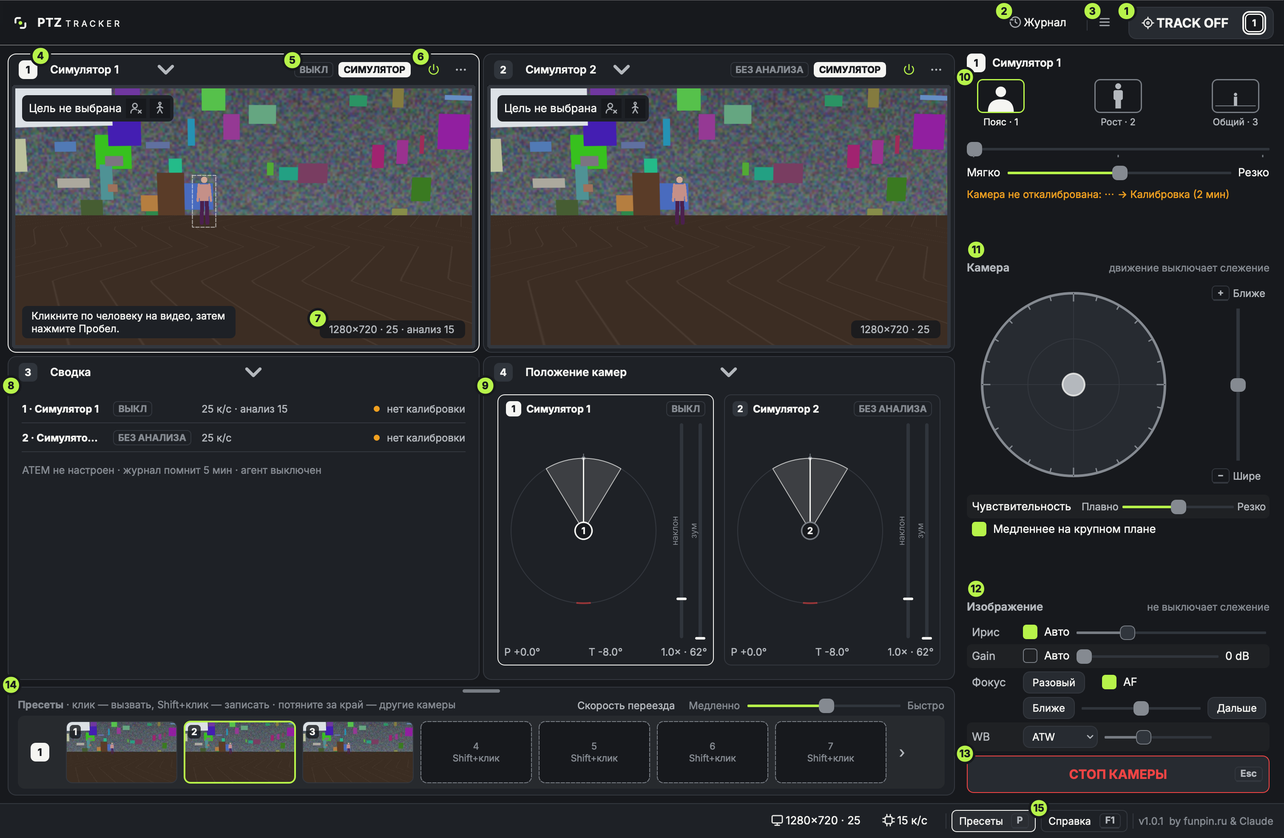
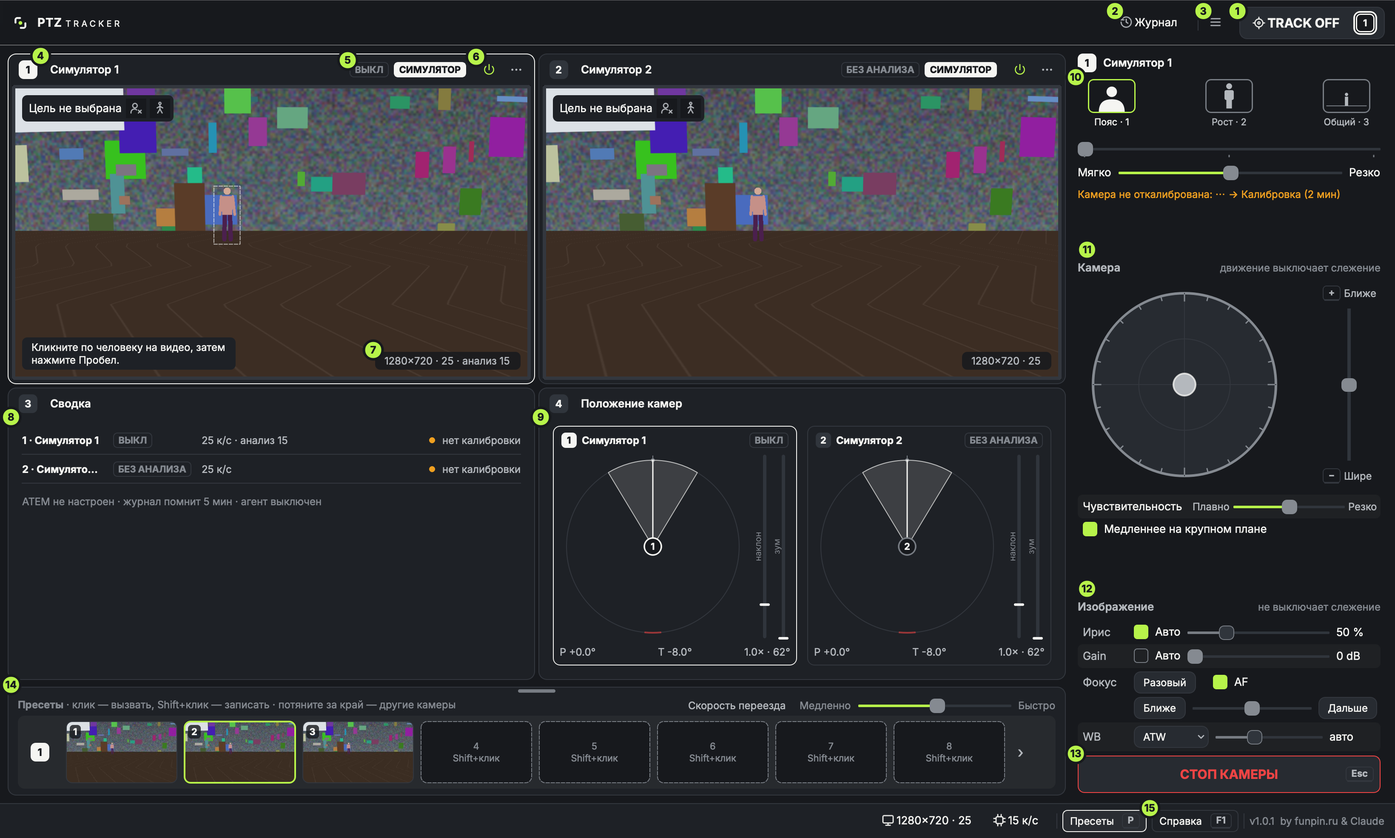
feat(ui): cell number in on-air colour; iris % and WB mode/kelvin values in one right column; header camera picker without the large system arrow

diff --git a/docs/design/mockups/summary-v2.html b/docs/design/mockups/summary-v2.html
@@ -1,0 +1,60 @@
+<!DOCTYPE html><html lang="ru"><head><meta charset="utf-8"><title>Сводка — варианты</title>
+<link href="https://fonts.googleapis.com/css2?family=Inter:wght@400;500;600;700;800&display=swap" rel="stylesheet">
+<style>
+:root{--bg:#17191D;--surface:#1E2126;--raised:#272B31;--raised-hi:#30353C;--line:#33373E;--white:#F5F5F2;--dim:#B4B8BD;--faint:#858A91;--grey:#777C83;--lime:#B7F34A;--pgm:#E8202A;--pvw:#2FB65E;--lost:#F0A020}
+*{box-sizing:border-box}body{margin:0;background:#0E0F12;color:var(--white);font-family:Inter,system-ui,sans-serif;padding:16px 18px;font-size:13px}
+h1{font-size:18px;margin:0 0 4px}.sub{color:var(--dim);font-size:12.5px;margin:0 0 12px;max-width:1150px;line-height:1.45}
+.g{display:grid;grid-template-columns:repeat(3,1fr);gap:14px}
+.v h3{margin:0 0 3px;font-size:14px}.v p{color:var(--dim);font-size:12px;line-height:1.4;margin:0 0 8px;min-height:50px}
+.cell{background:var(--surface);border:1px solid var(--line);border-radius:10px;height:300px;padding:10px 12px;display:flex;flex-direction:column;gap:8px;overflow:hidden}
+.hd{display:flex;align-items:center;gap:8px;font-weight:600}.n{width:20px;height:20px;border-radius:5px;background:var(--raised-hi);display:flex;align-items:center;justify-content:center;font-size:11px;font-weight:700}
+.n.pgm{background:var(--pgm)}.n.pvw{background:var(--pvw);color:var(--bg)}
+.lbl{font-size:10px;font-weight:700;letter-spacing:.06em;text-transform:uppercase}
+.big{font-size:34px;font-weight:800;font-variant-numeric:tabular-nums;letter-spacing:-1px;line-height:1}
+.mid{font-size:20px;font-weight:700;font-variant-numeric:tabular-nums}
+.tl{height:10px;border-radius:3px;display:flex;overflow:hidden;background:var(--raised);flex:1}.tl i{height:100%}
+.air{height:3px;border-radius:2px;display:flex;margin-top:2px}.air i{height:100%}
+.ax{display:flex;justify-content:space-between;color:var(--faint);font-size:10px}
+.lg{display:flex;gap:10px;font-size:10px;color:var(--faint)}.lg span:before{content:"";display:inline-block;width:7px;height:7px;border-radius:2px;margin-right:4px;background:var(--c)}
+.foot{margin-top:auto;color:var(--faint);font-size:11px;border-top:1px solid var(--line);padding-top:6px}
+.tile{background:var(--bg);border:1px solid var(--line);border-radius:8px;padding:8px 10px}
+.ring{width:84px;height:84px;border-radius:50%;display:flex;align-items:center;justify-content:center;position:relative}
+.ring:after{content:"";position:absolute;inset:9px;border-radius:50%;background:var(--surface)}
+.ring b{position:relative;z-index:1;font-size:15px;font-variant-numeric:tabular-nums}
+.choice{display:inline-flex;margin:14px 8px 0 0;padding:8px 14px;border-radius:999px;border:1px solid var(--line);cursor:pointer;color:var(--dim)}.choice.selected{border-color:var(--lime);color:var(--lime)}
+</style></head><body>
+<h1>«Сводка»: лента времени + эфирные часы</h1>
+<p class="sub">Клетка «Сводка» в настоящем размере окна 1640×850. Что в окне уже есть (ярлыки состояния, кадры в секунду), здесь не повторяем. Без ATEM вместо «в эфире» часы считают слежение.</p>
+<div class="g">
+
+<div class="v"><h3>1 · Табло сверху, дорожки снизу</h3><p>Крупно: кто в эфире и сколько, сколько ведёт без потери. Под ним — дорожки всех камер за 10 минут.</p>
+<div class="cell"><div class="hd"><span class="n">3</span>Сводка</div>
+<div style="display:grid;grid-template-columns:1fr 1fr;gap:8px">
+<div class="tile"><div class="lbl" style="color:var(--pgm)">в эфире · 1 Сцена</div><div class="big">04:37</div></div>
+<div class="tile"><div class="lbl" style="color:var(--lime)">ведёт без потери</div><div class="big">02:12</div></div></div>
+<div><div style="display:flex;align-items:center;gap:8px"><span class="n pgm">1</span><div class="tl"><i style="width:18%;background:var(--grey)"></i><i style="width:30%;background:var(--lime)"></i><i style="width:5%;background:var(--lost)"></i><i style="width:47%;background:var(--lime)"></i></div></div>
+<div style="display:flex;align-items:center;gap:8px;margin-top:7px"><span class="n pvw">2</span><div class="tl"><i style="width:60%;background:var(--grey)"></i><i style="width:40%;background:var(--lime)"></i></div></div>
+<div class="ax" style="margin:4px 0 0 28px"><span>−10 мин</span><span>−5</span><span>сейчас</span></div></div>
+<div class="lg"><span style="--c:var(--lime)">ведёт</span><span style="--c:var(--lost)">ищет</span><span style="--c:var(--grey)">вручную</span></div>
+<div class="foot">Сегодня: в эфире Сцена 38 мин, Зал 21 мин · цель терялась 3 раза</div></div></div>
+
+<div class="v"><h3>2 · Строка на камеру</h3><p>Каждая камера — строка: дорожка за 10 минут и справа её собственные часы. Эфир — красной чертой под дорожкой.</p>
+<div class="cell"><div class="hd"><span class="n">3</span>Сводка</div>
+<div class="tile" style="display:flex;gap:10px;align-items:center"><span class="n pgm">1</span><div style="flex:1"><div class="tl"><i style="width:18%;background:var(--grey)"></i><i style="width:30%;background:var(--lime)"></i><i style="width:5%;background:var(--lost)"></i><i style="width:47%;background:var(--lime)"></i></div><div class="air"><i style="width:45%"></i><i style="width:55%;background:var(--pgm)"></i></div></div>
+<div style="text-align:right;min-width:78px"><div class="lbl" style="color:var(--pgm)">в эфире</div><div class="mid">04:37</div></div></div>
+<div class="tile" style="display:flex;gap:10px;align-items:center"><span class="n pvw">2</span><div style="flex:1"><div class="tl"><i style="width:60%;background:var(--grey)"></i><i style="width:40%;background:var(--lime)"></i></div><div class="air"><i style="width:100%"></i></div></div>
+<div style="text-align:right;min-width:78px"><div class="lbl" style="color:var(--lime)">ведёт</div><div class="mid">03:58</div></div></div>
+<div class="ax" style="margin-left:30px;margin-right:88px"><span>−10 мин</span><span>сейчас</span></div>
+<div class="lg"><span style="--c:var(--lime)">ведёт</span><span style="--c:var(--lost)">ищет</span><span style="--c:var(--grey)">вручную</span><span style="--c:var(--pgm)">эфир</span></div>
+<div class="foot">Сегодня: в эфире Сцена 38 мин, Зал 21 мин · цель терялась 3 раза</div></div></div>
+
+<div class="v"><h3>3 · Кольца</h3><p>У каждой камеры — кольцо: доля времени «ведёт / ищет / вручную» за 10 минут, в центре — её часы. Красивее, но менее точно, чем дорожка.</p>
+<div class="cell"><div class="hd"><span class="n">3</span>Сводка</div>
+<div style="display:flex;justify-content:space-around;align-items:center;flex:1">
+<div style="text-align:center"><div class="ring" style="background:conic-gradient(var(--lime) 0 77%,var(--lost) 77% 82%,var(--grey) 82% 100%);outline:2px solid var(--pgm);outline-offset:3px"><b>04:37</b></div><div style="margin-top:8px;display:flex;gap:6px;align-items:center;justify-content:center"><span class="n pgm">1</span>Сцена</div><div class="lbl" style="color:var(--pgm);margin-top:3px">в эфире</div></div>
+<div style="text-align:center"><div class="ring" style="background:conic-gradient(var(--lime) 0 40%,var(--grey) 40% 100%)"><b>03:58</b></div><div style="margin-top:8px;display:flex;gap:6px;align-items:center;justify-content:center"><span class="n pvw">2</span>Зал</div><div class="lbl" style="color:var(--lime);margin-top:3px">ведёт</div></div></div>
+<div class="lg"><span style="--c:var(--lime)">ведёт</span><span style="--c:var(--lost)">ищет</span><span style="--c:var(--grey)">вручную</span></div>
+<div class="foot">Сегодня: в эфире Сцена 38 мин, Зал 21 мин · цель терялась 3 раза</div></div></div>
+</div>
+<div><span class="choice" data-choice="1">1 · Табло + дорожки</span><span class="choice" data-choice="2">2 · Строка на камеру</span><span class="choice" data-choice="3">3 · Кольца</span></div>
+</body></html>

diff --git a/docs/design/mockups/grid-modes.html b/docs/design/mockups/grid-modes.html
@@ -1,0 +1,53 @@
+<!DOCTYPE html><html lang="ru"><head><meta charset="utf-8"><title>Режимы сетки</title>
+<link href="https://fonts.googleapis.com/css2?family=Inter:wght@400;500;600;700&display=swap" rel="stylesheet">
+<style>
+:root{--bg:#17191D;--surface:#1E2126;--raised:#272B31;--raised-hi:#30353C;--line:#33373E;--white:#F5F5F2;--dim:#B4B8BD;--faint:#858A91;--grey:#777C83;--lime:#B7F34A;--pgm:#E8202A;--pvw:#2FB65E;--lost:#F0A020}
+*{box-sizing:border-box}body{margin:0;background:#0E0F12;color:var(--white);font-family:Inter,system-ui,sans-serif;padding:16px 18px;font-size:12px}
+h1{font-size:18px;margin:0 0 4px}.sub{color:var(--dim);font-size:12.5px;margin:0 0 12px;line-height:1.45;max-width:1150px}
+.g{display:grid;grid-template-columns:repeat(4,1fr);gap:14px}
+.v h3{margin:0 0 3px;font-size:13.5px}.v p{color:var(--dim);font-size:11.5px;line-height:1.4;margin:0 0 8px;min-height:64px}
+.win{background:var(--bg);border:1px solid var(--line);border-radius:8px;height:250px;display:flex;flex-direction:column;overflow:hidden}
+.top{height:20px;border-bottom:1px solid var(--line);display:flex;align-items:center;gap:6px;padding:0 6px;font-size:9px;color:var(--faint)}
+.seg{margin-left:auto;display:inline-flex;border:1px solid var(--line);border-radius:5px;overflow:hidden}.seg span{padding:1px 6px;font-size:9px}.seg span.on{background:var(--white);color:var(--bg);font-weight:700}
+.body{flex:1;display:flex;gap:4px;padding:4px}
+.grid{flex:1;display:grid;grid-template-columns:1fr 1fr;grid-template-rows:1fr 1fr;gap:4px}
+.side{width:52px;background:var(--surface);border:1px solid var(--line);border-radius:5px}
+.c{border:1px solid var(--line);border-radius:5px;background:var(--surface);position:relative;padding:4px;font-size:9px;color:var(--dim);overflow:hidden}
+.c.cam{background:linear-gradient(180deg,#4f5866,#3e434c 55%,#4d3c2e 56%,#3a2d22)}
+.c .n{position:absolute;left:4px;top:4px;background:var(--raised-hi);color:var(--white);border-radius:3px;padding:0 4px;font-weight:700;font-size:9px}
+.c.sel{border-color:var(--white)}.c.pgm{outline:2px solid var(--pgm);outline-offset:-2px}
+.lab{position:absolute;left:24px;top:4px;color:var(--white);font-weight:600}
+.dd{position:absolute;right:4px;top:3px;font-size:9px;color:var(--white);border:1px solid var(--line);border-radius:4px;padding:0 4px;background:var(--raised)}
+.menu{position:absolute;left:22px;top:18px;background:var(--raised);border:1px solid var(--line);border-radius:5px;padding:3px;width:120px;z-index:3}
+.menu div{padding:2px 5px;border-radius:3px;font-size:9.5px;color:var(--dim)}.menu div.on{background:var(--raised-hi);color:var(--white)}.menu div.on:before{content:"✓ ";color:var(--lime)}
+.prog{position:absolute;left:0;right:0;bottom:0;height:2px;background:var(--raised-hi)}.prog i{display:block;height:100%;width:60%;background:var(--lime)}
+.strip{height:40px;display:flex;gap:4px;margin-top:4px}.strip .c{flex:1}
+.note{color:var(--faint);font-size:10.5px;margin-top:6px;line-height:1.35}
+.choice{display:inline-flex;margin:14px 8px 0 0;padding:8px 14px;border-radius:999px;border:1px solid var(--line);cursor:pointer;color:var(--dim)}.choice.selected{border-color:var(--lime);color:var(--lime)}
+</style></head><body>
+<h1>Режимы «4 камеры» и «1 камера»</h1>
+<p class="sub">Сейчас режима «1 камера» нет: всегда сетка 2×2, а пустые клетки заполняются служебными («Сводка», «Положение камер», «Графики PTZ»). Ниже — как предлагаю сделать. Переключение — кнопка ▦/▢ в верхней строке, клавиша <b>G</b> или двойной клик по шапке клетки.</p>
+<div class="g">
+<div class="v"><h3>Режим «1 камера»</h3><p>Выбранная камера на всю ширину. Под ней — полоска остальных камер: клик переключает, рамка эфира видна и тут. Панель справа без изменений.</p>
+<div class="win"><div class="top">PTZ TRACKER<span class="seg"><span>▦ 4</span><span class="on">▢ 1</span></span></div>
+<div class="body"><div style="flex:1;display:flex;flex-direction:column"><div class="c cam sel pgm" style="flex:1"><span class="n" style="background:var(--pgm)">1</span><span class="lab">Сцена</span></div>
+<div class="strip"><div class="c cam"><span class="n" style="background:var(--pvw);color:var(--bg)">2</span></div><div class="c cam"><span class="n">3</span></div><div class="c"><span class="n">≡</span><span class="lab" style="left:20px">Сводка</span></div></div></div><div class="side"></div></div></div>
+<div class="note">Полоска — 40–60 px по высоте, видео в ней живое, но с меньшей частотой кадров.</div></div>
+
+<div class="v"><h3>Одна камера в режиме «4»</h3><p>Предлагаю: при одной подключённой камере программа сама открывается в «1 камера» — сетка с тремя служебными клетками для неё не нужна. В «4» можно перейти кнопкой.</p>
+<div class="win"><div class="top">PTZ TRACKER<span class="seg"><span class="on">▦ 4</span><span>▢ 1</span></span></div>
+<div class="body"><div class="grid"><div class="c cam sel"><span class="n">1</span></div><div class="c"><span class="n">2</span><span class="lab">Сводка</span></div><div class="c"><span class="n">3</span><span class="lab">Положение камер</span></div><div class="c"><span class="n">4</span><span class="lab">Графики PTZ</span></div></div><div class="side"></div></div></div>
+<div class="note">Так сейчас: камера + три служебные клетки.</div></div>
+
+<div class="v"><h3>Три камеры — одна свободная клетка</h3><p>Ваше предложение: в шапке клетки — выбор «Сводка», «Положение камер» или «По очереди». По очереди — смена раз в 30 с, внизу тонкая полоска до следующей смены.</p>
+<div class="win"><div class="top">PTZ TRACKER<span class="seg"><span class="on">▦ 4</span><span>▢ 1</span></span></div>
+<div class="body"><div class="grid"><div class="c cam sel pgm"><span class="n" style="background:var(--pgm)">1</span></div><div class="c cam"><span class="n" style="background:var(--pvw);color:var(--bg)">2</span></div><div class="c cam"><span class="n">3</span></div>
+<div class="c"><span class="n">4</span><span class="dd" style="left:22px;right:auto">По очереди ⌄</span><div class="menu"><div>Сводка</div><div>Положение камер</div><div class="on">По очереди · 30 с</div></div><div class="prog"><i></i></div></div></div><div class="side"></div></div></div>
+<div class="note">Наведение мыши на клетку ставит смену на паузу.</div></div>
+
+<div class="v"><h3>Две камеры</h3><p>Как сейчас: две служебные клетки — «Сводка» и «Положение камер». В шапке каждой — тот же выбор: что показывать в этой клетке («Сводка», «Положение камер», «Графики PTZ»).</p>
+<div class="win"><div class="top">PTZ TRACKER<span class="seg"><span class="on">▦ 4</span><span>▢ 1</span></span></div>
+<div class="body"><div class="grid"><div class="c cam sel"><span class="n">1</span></div><div class="c cam"><span class="n">2</span></div><div class="c"><span class="n">3</span><span class="dd" style="left:22px;right:auto">Сводка ⌄</span></div><div class="c"><span class="n">4</span><span class="dd" style="left:22px;right:auto">Положение камер ⌄</span></div></div><div class="side"></div></div></div></div>
+</div>
+<div><span class="choice" data-choice="ok">Так нравится</span><span class="choice" data-choice="change">Поменять (напишу)</span></div>
+</body></html>

diff --git a/src/ptztracker/ui/manual_controls.py b/src/ptztracker/ui/manual_controls.py
@@ -31,6 +31,7 @@ ZOOM_ROCKER_H = 112  # вместе с клавишами и подписями 
 STICK_MIN, STICK_MAX = 176, 260  # стик: в окне 1640×850 и на высоком экране (MacBook Pro 16 во весь экран)
 LABEL_W = 52  # колонка подписей «Изображения» (спека «Всё влезает и стоит ровно»)
 H_SMALL = 28  # кнопки фокуса
+VALUE_W = 56  # колонка значений справа: 50 %, 6 dB, 5600 K — одним краем
 ROW_LIT_S = 1.5  # столько горит строка после действия оператора (мышь, клавиши, быстрые настройки)
 TOUCH_HOLD_S = 1.5  # столько опрос камеры не перебивает ползунок, который оператор только что тронул
 
@@ -239,9 +240,16 @@ class ManualControls(QWidget):
         self.iris_slider.setRange(0, 100)
         self.iris_slider.setValue(50)
         self.iris_slider.setEnabled(False)
+        # насколько открыт ирис; диафрагма F по шкале камеры не сверена — поэтому проценты
+        self.iris_value = QLabel("")
+        self.iris_value.setMinimumWidth(VALUE_W)
+        self.iris_value.setAlignment(Qt.AlignRight | Qt.AlignVCenter)
+        self.iris_value.setToolTip("Насколько открыт ирис: 0 % — закрыт, 100 % — открыт")
         self.iris_auto.toggled.connect(self._on_iris_auto)
         self.iris_slider.valueChanged.connect(self._on_iris)
-        il = self._row("Ирис", self.iris_auto, self.iris_slider)
+        self.iris_slider.valueChanged.connect(lambda v: self.iris_value.setText(f"{v} %"))
+        self.iris_value.setText(f"{self.iris_slider.value()} %")
+        il = self._row("Ирис", self.iris_auto, self.iris_slider, self.iris_value)
 
         # gain: шаги по 3 dB (коды GAIN_CODES) и «Авто»
         self._touched: dict[str, float] = {}  # что оператор трогал недавно — опрос камеры это не перебивает
@@ -250,7 +258,8 @@ class ManualControls(QWidget):
         self.gain_slider.setRange(0, len(P.GAIN_CODES) - 1)
         self.gain_slider.setPageStep(1)
         self.gain_value = QLabel("")
-        self.gain_value.setMinimumWidth(48)
+        self.gain_value.setMinimumWidth(VALUE_W)
+        self.gain_value.setAlignment(Qt.AlignRight | Qt.AlignVCenter)
         self.gain_auto.toggled.connect(self._on_gain_auto)
         self.gain_slider.valueChanged.connect(self._on_gain)
         gl = self._row("Gain", self.gain_auto, self.gain_slider, self.gain_value)
@@ -270,7 +279,8 @@ class ManualControls(QWidget):
         self.ctemp_slider.setRange(0, P.COLOR_TEMP_MAX)
         self.ctemp_slider.setEnabled(False)
         self.ctemp_value = QLabel("")
-        self.ctemp_value.setMinimumWidth(56)
+        self.ctemp_value.setMinimumWidth(VALUE_W)
+        self.ctemp_value.setAlignment(Qt.AlignRight | Qt.AlignVCenter)
         self.ctemp_value.setToolTip("Кельвины приблизительно: шкала камеры не сверена с её меню")
         self.wb_combo.currentIndexChanged.connect(self._on_wb)
         self.ctemp_slider.valueChanged.connect(self._on_ctemp)
@@ -459,7 +469,10 @@ class ManualControls(QWidget):
         self.gain_slider.setEnabled(not self.gain_auto.isChecked())
         var = self.wb_combo.currentData() == P.WB_VAR
         self.ctemp_slider.setEnabled(var)
-        self.ctemp_value.setText(f"≈{P.color_temp_kelvin(self.ctemp_slider.value())} K" if var else "")
+        mode = self.wb_combo.currentData()
+        fixed = {0: "авто", 3: "авто", 1: "память", 2: "память", 4: "3200 K", 5: "5600 K"}  # ATW, AWB A/B, лампы
+        self.ctemp_value.setText(f"≈{P.color_temp_kelvin(self.ctemp_slider.value())} K" if var
+                                 else fixed.get(mode, ""))
 
     def _on_gain_auto(self, on: bool) -> None:
         self._touch("gain")

diff --git a/src/ptztracker/ui/camera_cell.py b/src/ptztracker/ui/camera_cell.py
@@ -34,6 +34,7 @@ class CameraCell(QFrame):
         super().__init__(parent)
         self.slot = slot
         self._selected = False
+        self._tally: str | None = None
         self.setObjectName("cameraCell")
 
         self.preview = PreviewWidget()
@@ -78,8 +79,9 @@ class CameraCell(QFrame):
             f"QComboBox:hover {{ background: {C.RAISED}; }}"
             "QComboBox::drop-down { border: none; width: 14px; }"
             # шапка чистая, как раньше; галочка ⌄ — только при наведении, что тут можно выбрать камеру
-            "QComboBox::down-arrow { image: none; }"
-            f"QComboBox:hover::down-arrow {{ image: url({CHEVRON}); width: 10px; height: 10px; }}")
+            # «image: none» на Mac возвращает крупную системную стрелку — прячем нулевым размером
+            f"QComboBox::down-arrow {{ image: url({CHEVRON}); width: 0px; height: 0px; }}"
+            "QComboBox:hover::down-arrow { width: 10px; height: 10px; }")
         self.tally_tag = StateTag("pgm")
         self.state_tag = StateTag("off")
         self.sim_tag = StateTag("sim")
@@ -172,9 +174,11 @@ class CameraCell(QFrame):
         self.setStyleSheet(
             f"QFrame#cameraCell {{ background: {C.SURFACE}; border: 1px solid {border};"
             f" border-radius: {R_PANEL}px; }}")
-        on = self._selected
+        # номер клетки — цветом эфира, чтобы PGM/PVW было видно издалека; без эфира у выбранной — белый
+        bg, fg = {"pgm": (C.PGM, C.TEXT), "pvw": (C.PVW, C.BG)}.get(
+            self._tally or "", (C.TEXT, C.BG) if self._selected else (C.RAISED_HI, C.TEXT))
         self.number_label.setStyleSheet(
-            f"background: {C.TEXT if on else C.RAISED_HI}; color: {C.BG if on else C.TEXT};"
+            f"background: {bg}; color: {fg};"
             f" border-radius: {R_TAG + 1}px; font-weight: 700; font-size: {FS_CAPTION}px;")
 
     def set_pads(self, pads: list[tuple[int, int | None, bool]]) -> None:
@@ -197,6 +201,9 @@ class CameraCell(QFrame):
         self.tally_tag.setVisible(tally is not None)
         if tally:
             self.tally_tag.set(tally)
+        if tally != self._tally:
+            self._tally = tally
+            self._apply_border()
         self.state_tag.setVisible(state is not None)
         if state:
             self.state_tag.set(state)

diff --git a/tests/ui/test_camera_cell.py b/tests/ui/test_camera_cell.py
@@ -135,3 +135,19 @@ def test_service_replaced_and_none_without_service(qtbot):
     c.set_service(a)
     c.set_service(b)
     assert b.isVisible() and a.parent() is None
+
+
+def test_number_tile_takes_tally_color(qtbot):
+    """Эфир видно издалека: номер клетки красный в PGM, зелёный в PVW (пользователь 2026-11-05)."""
+    from ptztracker.ui.theme import C
+
+    c = make(qtbot)
+    c.set_selected(True)
+    c.set_header("pgm", "on", False, "on")
+    assert f"background: {C.PGM}" in c.number_label.styleSheet()
+    c.set_header("pvw", "on", False, "on")
+    assert f"background: {C.PVW}" in c.number_label.styleSheet()
+    c.set_header(None, "on", False, "on")
+    assert f"background: {C.TEXT}" in c.number_label.styleSheet()  # без эфира — как раньше: выбранная белая
+    c.set_selected(False)
+    assert f"background: {C.RAISED_HI}" in c.number_label.styleSheet()

diff --git a/tests/ui/test_manual_controls.py b/tests/ui/test_manual_controls.py
@@ -238,3 +238,19 @@ def test_slider_handle_not_clipped(qtbot):
     finally:
         app.setStyleSheet(old_style)
         app.setPalette(old_pal)
+
+
+def test_iris_and_wb_show_values(qtbot):
+    """Как у Gain: у ириса — насколько открыт, у баланса белого — режим или кельвины (пользователь 2026-11-05)."""
+    from ptztracker.camera import protocol as P
+
+    c, _ = make(qtbot)
+    c.iris_slider.setValue(45)
+    assert c.iris_value.text() == "45 %"
+    labels = {}
+    for mode in (0, 1, 4, 5, P.WB_VAR):
+        c.wb_combo.setCurrentIndex(c.wb_combo.findData(mode))
+        labels[mode] = c.ctemp_value.text()
+    assert labels[0] == "авто" and labels[1] == "память"
+    assert labels[4] == "3200 K" and labels[5] == "5600 K"
+    assert labels[P.WB_VAR].startswith("≈") and labels[P.WB_VAR].endswith("K")

diff --git a/CHANGELOG.md b/CHANGELOG.md
@@ -25,6 +25,9 @@
 - Флажок **«Медленнее на крупном плане»** (включён): на теле тот же наклон стика поворачивает камеру медленнее, чтобы кадр не улетал. Мышь, стрелки и геймпады; слежение это не меняет.
 
 ### Изменено
+- Номер клетки — цветом эфира: красный в PGM, зелёный в PVW; эфир видно издалека.
+- У ириса — насколько он открыт (%), у баланса белого — режим или кельвины (авто, память, 3200 K, 5600 K, ≈K в VAR).
+- Шапка клетки: убрана крупная системная стрелка у выбора камеры, тонкая галочка — только при наведении.
 - Правая панель — строки как в таблице: через одну фон чуть светлее. Строка, которую сейчас меняют (мышью, клавишами, из быстрых настроек или с геймпада), загорается на 1,5 с — лаймовая полоска слева и светлая подпись.
 - Выпадающие списки — как кнопки: тонкая галочка ⌄ вместо отдельного отсека со стрелкой (на Windows он выглядел чужим). Баланс белого — компактный чип размером с «Разовый»; в шапке клетки галочка появляется при наведении.
 - Ползунки в одном стиле: лаймовая заливка до серой ручки в форме скруглённого квадрата (ручку больше не срезает сверху и снизу на Mac); выключенный («Авто», ATW) — серая заливка и тёмная ручка.
